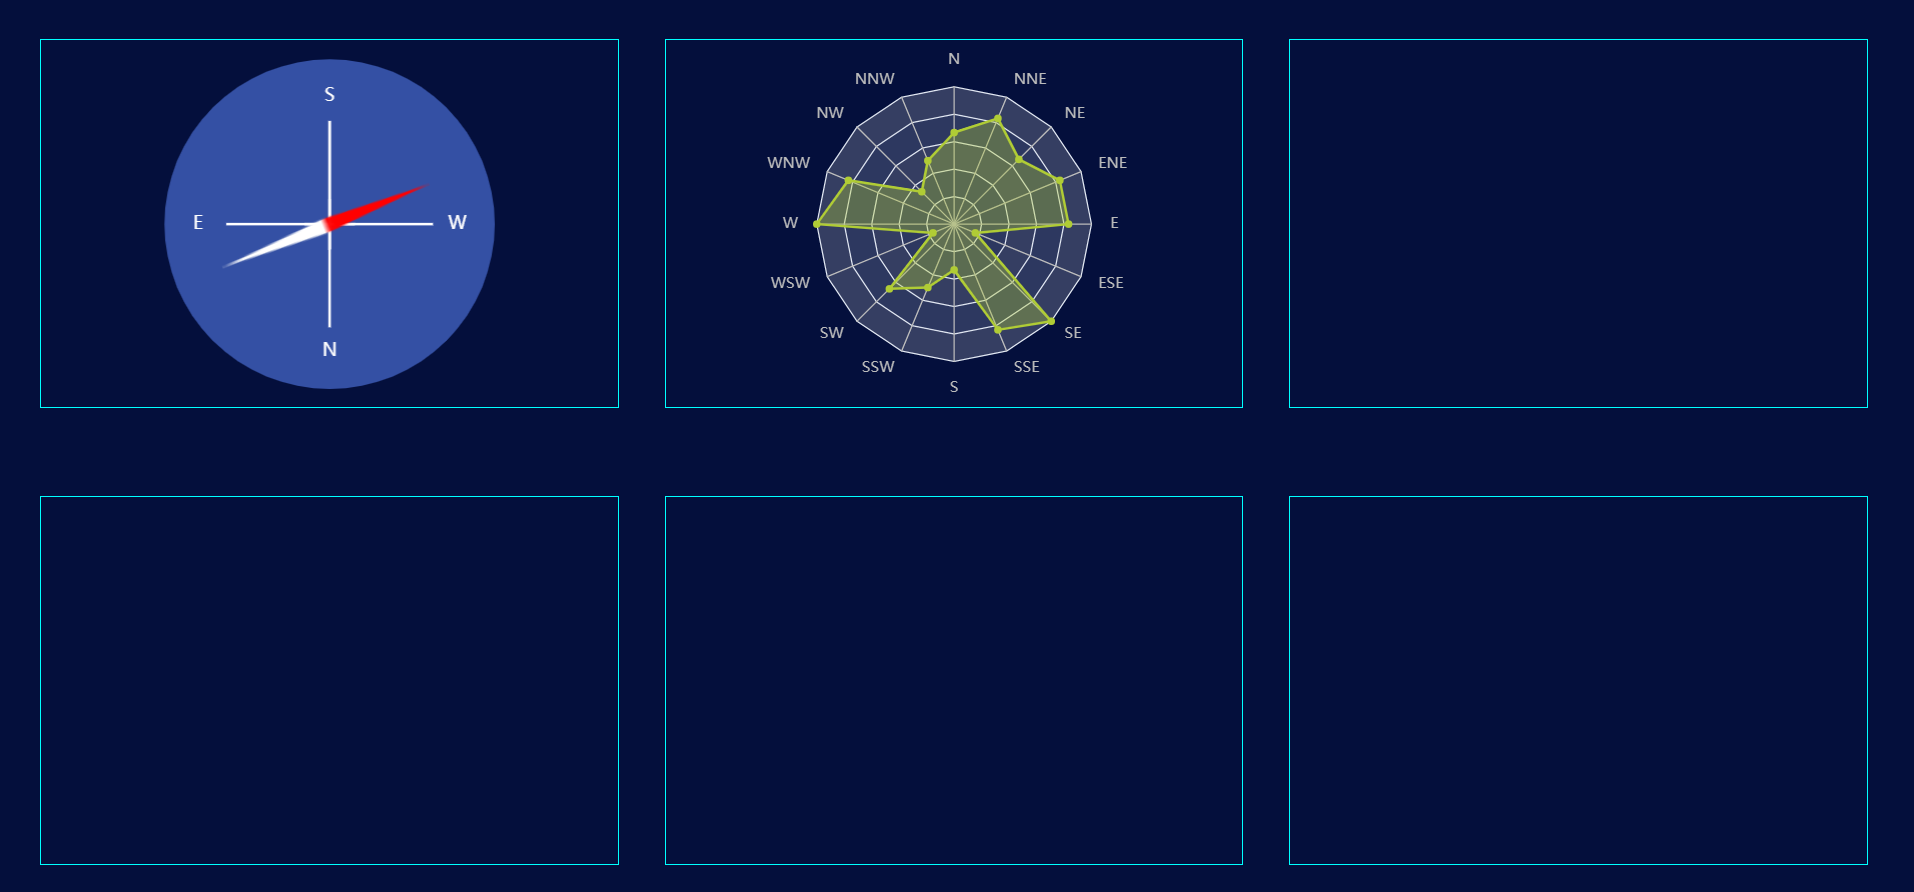
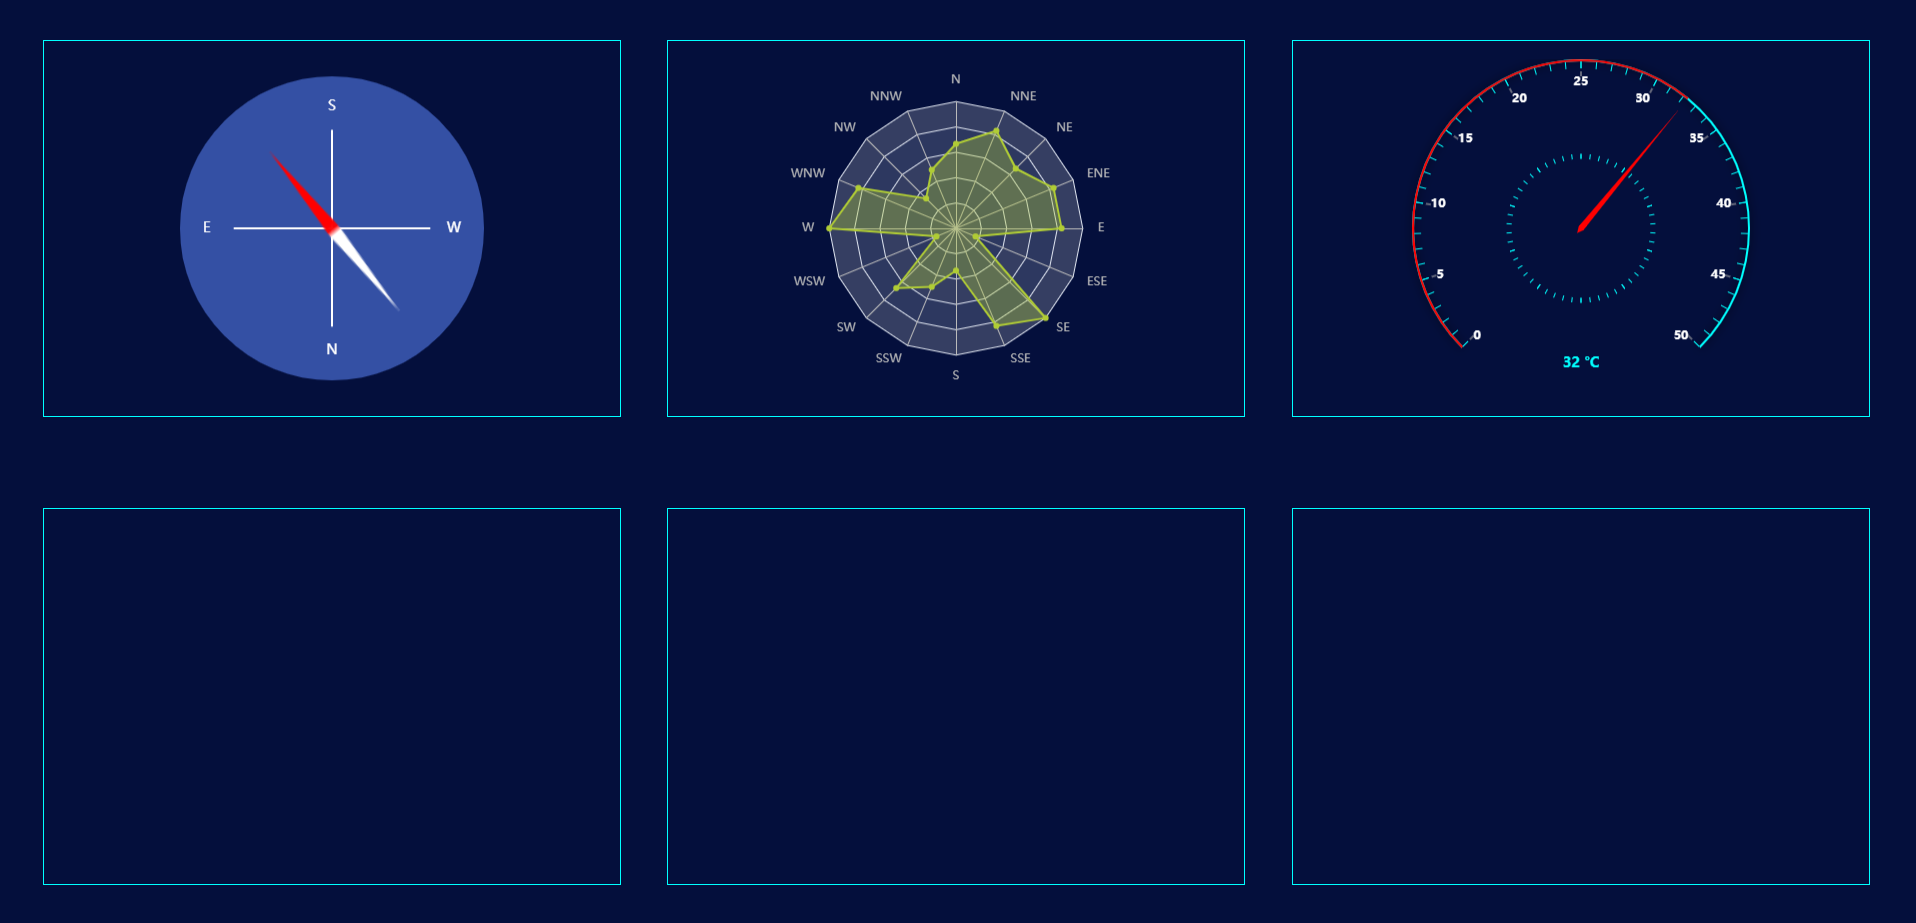
echarts 1.2

diff --git a/js/index.js b/js/index.js
@@ -1,6 +1,4 @@
 $(function () {
-    //  com = 189;
-    var ros = [4, 3, 2, 5, 6, 1, 4, 3, 2, 5, 6, 1, 5, 5, 4, 5];
     // 指南针
     var compass = {
         tooltip: {
@@ -98,7 +96,7 @@ $(function () {
                 show: false
             },
             data: [{
-                value:189
+                value: 189
             }]
         }],
     };
@@ -209,26 +207,160 @@ $(function () {
                 fontSize: 28,
             },
             data: [{
-                value: ros
+                value: [4, 3, 2, 5, 6, 1, 4, 3, 2, 5, 6, 1, 5, 5, 4, 5]
             }],
         }]
     }
     var myChart2 = _Chart('myChart2', rose);
 
+    // 温度仪表盘
+    var temp = {
+        tooltip: {
+            formatter: '当前温度：{c}°C'
+        },
+        grid:{
+            top:20,
+        },
+        series: [
+            //内圈
+            {
+                type: "gauge",
+                center: ["50%", "50%"], // 默认全局居中
+                radius: "50%",
+                min: 0,
+                max: 10,
+                startAngle: 270,
+                endAngle: -89.99999,
+                splitNumber: 10,
+                axisLabel: {
+                    // 刻度标签
+                    show: false,
+                },
+                axisTick: {
+                    // 刻度
+                    length: 5, // 属性length控制线长
+                    lineStyle: {
+                        // 属性lineStyle控制线条样式
+                        color: '#00ffff',
+                    },
+                },
+                splitLine: {
+                    // 分隔线
+                    show: false,
+                },
+                pointer: {
+                    width: 0,
+                    shadowColor: "#fff", //默认透明
+                    shadowBlur: 5,
+                },
+                detail: {
+                    show: false,
+                },
+                axisLine: {
+                    // 坐标轴线
+                    lineStyle: {
+                        // 属性lineStyle控制线条样式
+                        color: [
+                            [1, '#00ffff']
+                        ],
+                        width: 0,
+                        shadowBlur: 10,
+                    },
+                }
+            },
+            //外圈
+            {
+                type: "gauge",
+                center: ["50%", "50%"], // 默认全局居中
+                radius: "100%",
+                min: 0,
+                max: 50,
+                name: "室内",
+                axisLine: {
+                    // 坐标轴线
+                    lineStyle: {
+                        color: [
+                            [1, "#00ffff"]
+                        ], // 属性lineStyle控制线条样式
+                        width: 2,
+                        shadowBlur: 10,
+                    },
+                    // 刻度标签
+                    show: true,
+                },
+                itemStyle: {
+                    normal: {
+                        color: "#FF0000",
+                    },
+                },
+                axisTick: {
+                    length: 7,
+                    lineStyle: {
+                        // 属性lineStyle控制线条样式
+                        color: '#00ffff',
+                    },
+                    // 刻度线与轴线的距离
+                    distance: 0
+                },
+                axisLabel: {
+                    // 坐标轴小标记
+                    textStyle: {
+                        // 属性lineStyle控制线条样式
+                        fontWeight: "bolder",
+                        fontSize: 12,
+                        fontFamily: "numfont",
+                    },
+                    distance: 2,
+                    color: '#fff'
+                },
+                splitLine: {
+                    // 分隔线
+                    length: 5, // 属性length控制线长
+                    lineStyle: {
+                        // 属性lineStyle（详见lineStyle）控制线条样式
+                        width: 2,
+                    },
+                },
+                pointer: {
+                    width: 3,
+                    length: "90%",
+                },
+                detail: {
+                    valueAnimation: true,
+                    fontSize: 14,
+                    formatter: '{value} °C',
+                    offsetCenter: [0, '80%'],
+                    color: '#00ffff'
+                },
+                data: [{
+                    value: 23
+                }],
+                progress: {
+                    show: true,
+                    width: 2,
+                },
+            },
+        ],
+    }
+    var myChart3 = _Chart('myChart3',temp)
 
     // 自适应
     window.onresize = () => {
         myChart1.resize();
         myChart2.resize();
+        myChart3.resize();
     }
 
-    setInterval(()=>{
+    setInterval(() => {
 
-        compass.series[2].data[0].value = _random(0,360);
+        compass.series[2].data[0].value = _random(0, 360);
+        temp.series[1].data[0].value = _random(0,50);
+
         _Chart('myChart1', compass);
+        _Chart('myChart3', temp);
 
 
-    },1000)
+    }, 1000)
 
 })
 
@@ -257,7 +389,6 @@ function _Chart(id, option, flag) {
  * @param {Number} upperValue 结束范围
  * @returns 
  */
- function _random(lowerValue, upperValue) {
+function _random(lowerValue, upperValue) {
     return Math.floor(Math.random() * (upperValue - lowerValue + 1) + lowerValue);
-  }
-  
+}

diff --git a/css/index.css b/css/index.css
@@ -16,8 +16,13 @@ body,html{
     width: 30vw;
     height: 40vh;
     border: 1px solid #00ffff;
+    position:relative;
 }
 
 .canvas .item>div{
-    height: 100%;
+    width: 100%;
+    height: 90%;
+    position: absolute;
+    top: 50%;
+    transform: translateY(-50%);
 }
